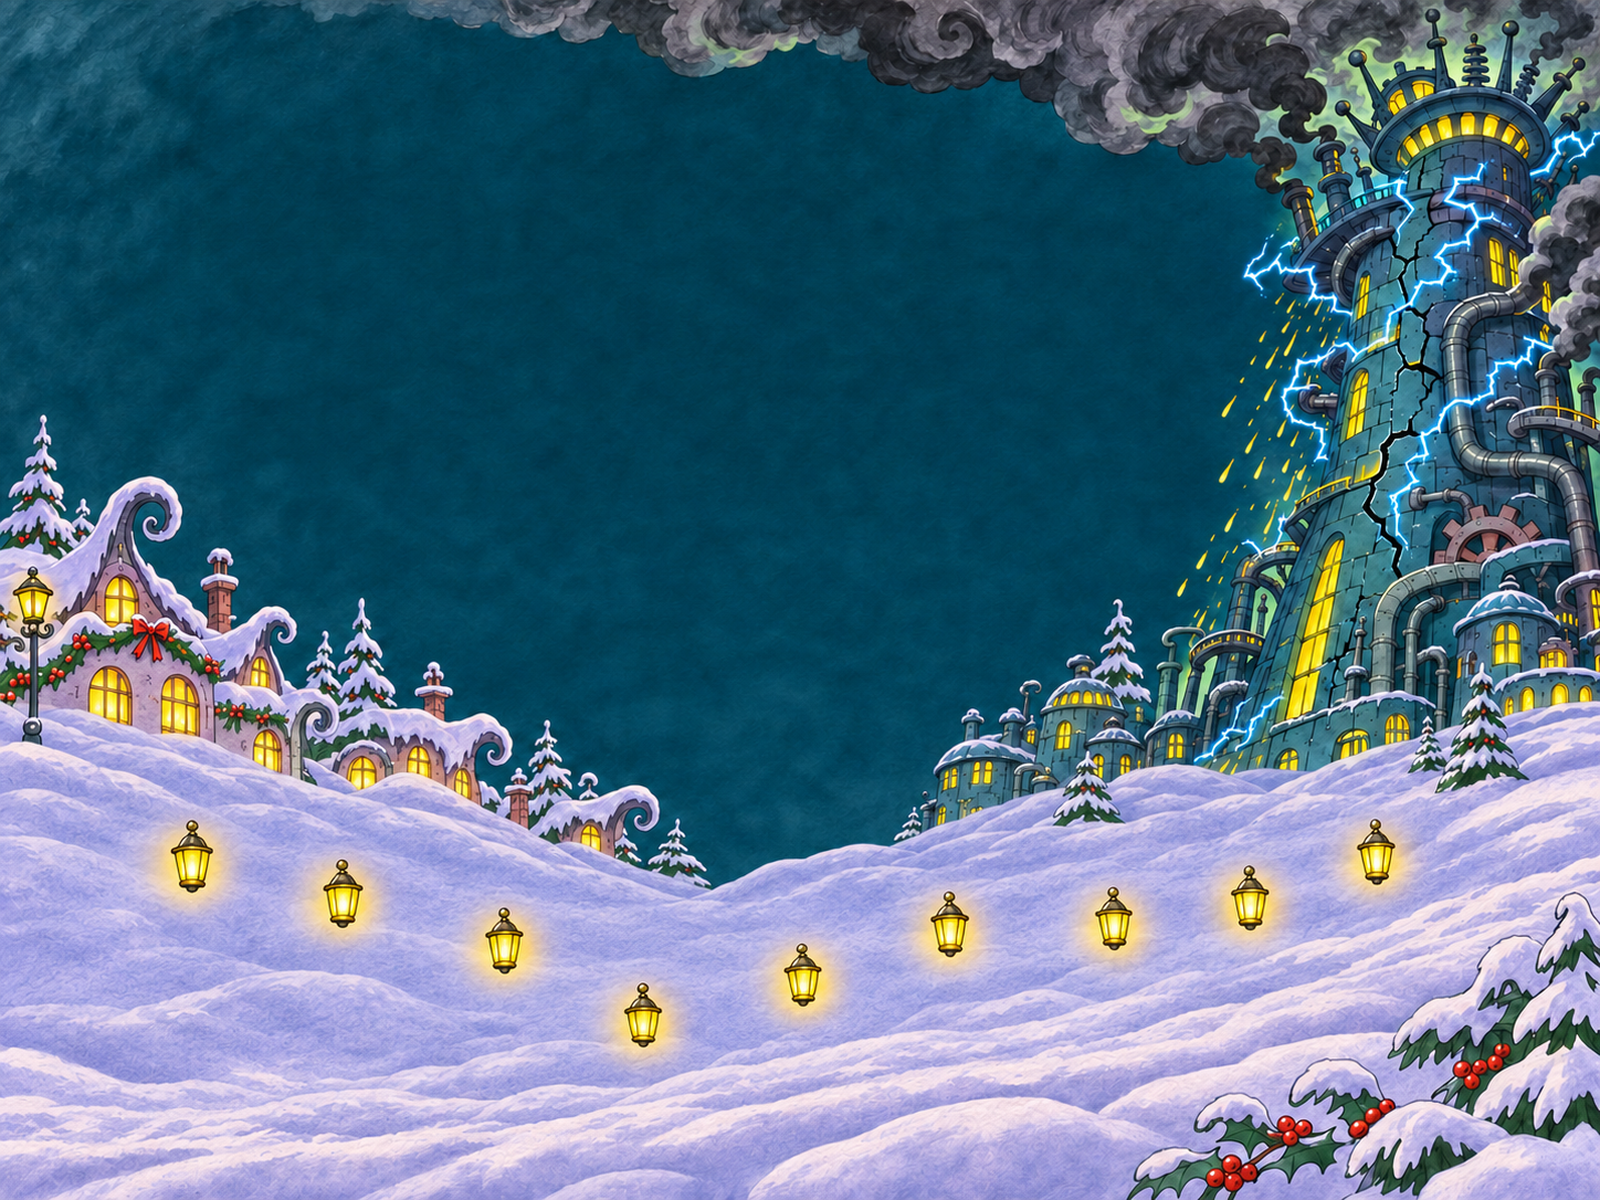
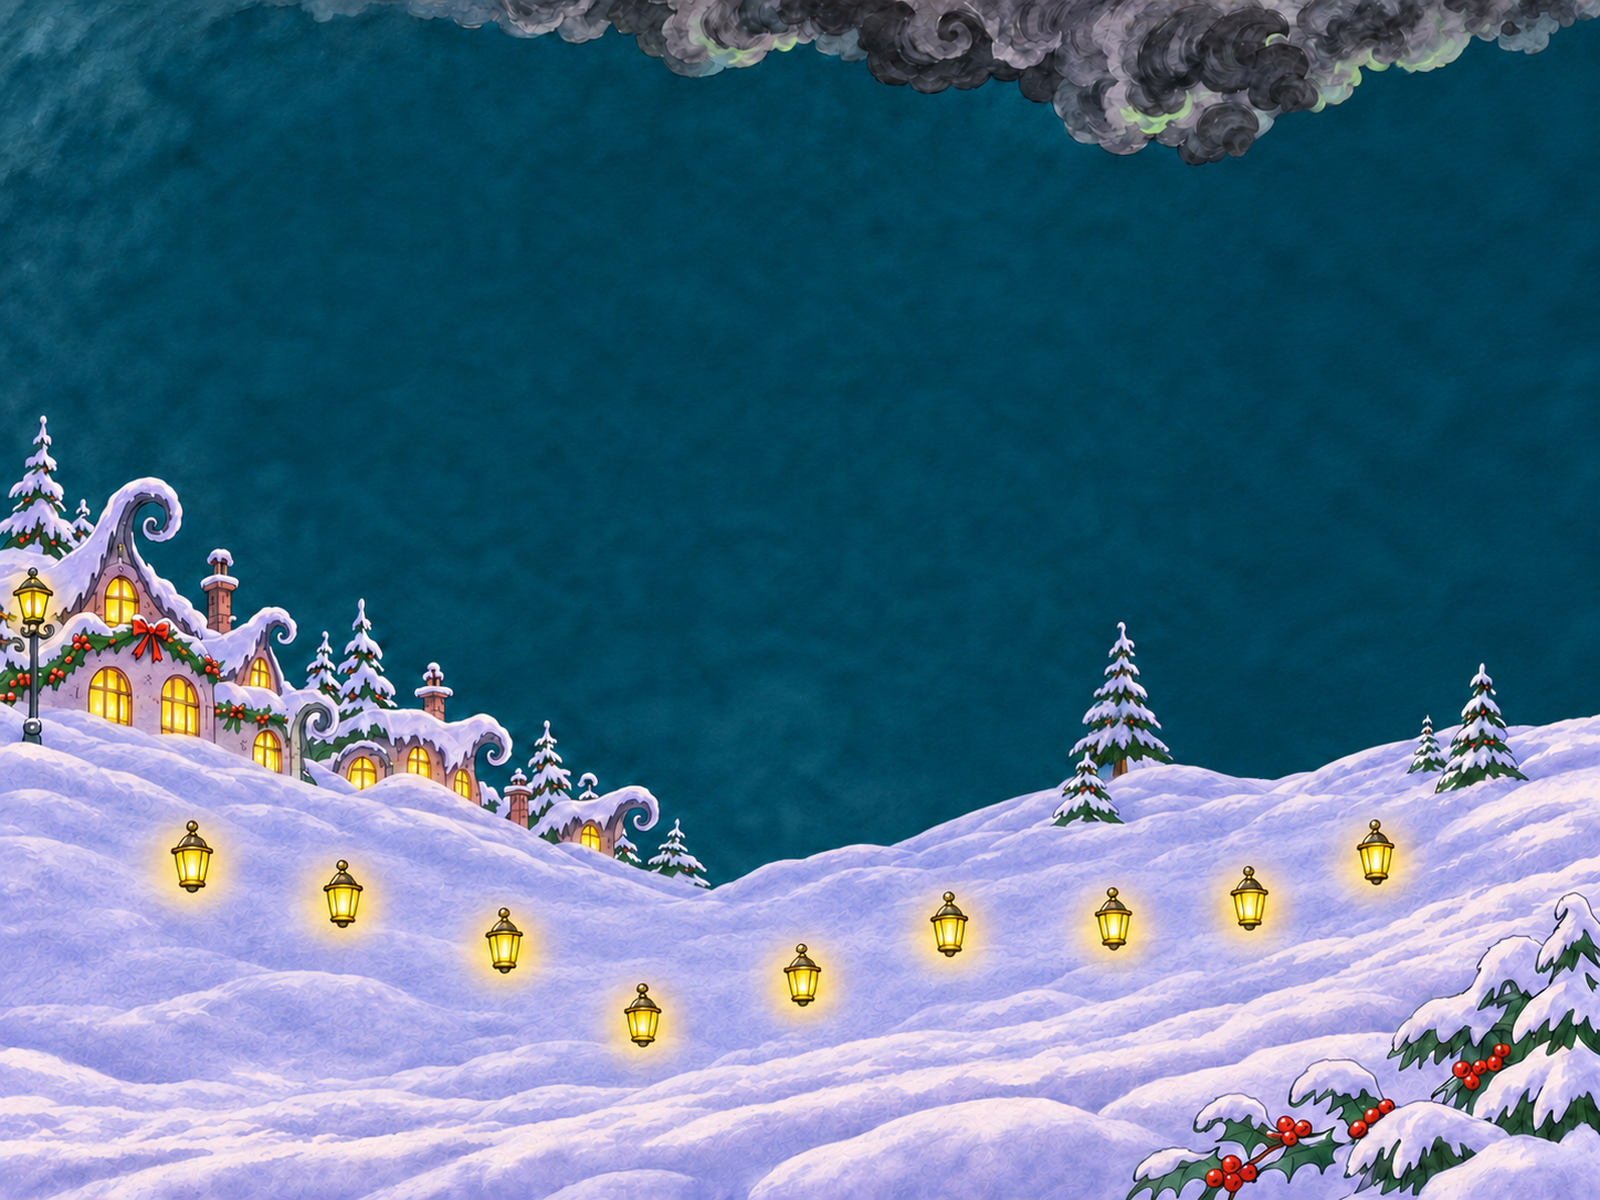
feat: elves bob with a band-aid slap, box brigade and balloon pop (51-53); RAM monument (54); windmills turn (56); cut-out towers everywhere after the intro
Claude-Session: https://claude.ai/code/session_01BFhReQ2JcUvxWY8MGAMx4B

diff --git a/src/shots/elves-town.ts b/src/shots/elves-town.ts
@@ -61,12 +61,58 @@ export const shot54: Choreo = (_t, frame, shot) => {
   const glow = 0.5 + 0.3 * rise + 0.2 * Math.exp(-(t - lastWord) / 0.25);
   const base: P = [RING54.cx + 30, RING54.snow + 10 + lerp(560, 0, rise)];
   for (const [r, o] of [[330, 0.07], [240, 0.1], [160, 0.14]] as [number, number][]) items.push({draw: {kind: 'dot', at: [base[0] + 40, base[1] - 320], size: r * (0.85 + 0.25 * glow), color: '#e8ffb0', opacity: o * glow}});   // soft layered glow
-  items.push({sprite: 'sprites/props/ram-stick', at: base, scale: 1.7, rot: -80, ramGiant: true} as Item);   // stood upright like a monument
+  items.push({sprite: 'sprites/townsfolk/ram-giant', at: base, scale: 1.25, size: [335, 521], anchor: [167, 515], ramGiant: true} as Item);   // the glowing RAM monument
   for (let k = 0; k < 10; k++) {   // sparkles around the monument
     const ph = (t * 1.3 + hash(k * 4.1)) % 1, th = 2 * Math.PI * hash(k * 2.3);
     items.push({draw: {kind: 'flake', at: [base[0] + Math.cos(th) * (180 + 120 * hash(k)), base[1] - 280 + Math.sin(th) * 260], size: 16 * Math.sin(Math.PI * ph), color: '#fffbe0', opacity: Math.sin(Math.PI * ph)}});
   }
   items.push({front: {y: RING54.snow}});
   items.push(...FRONT.map(([n, off], k) => pair('front', n, off, RING54.frontY, 0.95, k + 1)));
+  return items;
+};
+
+/** 51 (3:14) "…and patched up the hack!": the watching elves bob along; the ladder elf slaps the giant band-aid onto
+ *  the cracked server on "patched" — a lunge, a squash and a shower of sparks. */
+export const SLAP51 = lyrics[40].words.find(w => w.w === 'patched')!.s;
+export const shot51: Choreo = (_t, frame) => {
+  const t = twos(frame), a = t - SLAP51, slap = a >= 0 ? Math.exp(-a / 0.2) : clamp01(1 + a / 0.25) * 0.4;
+  const items: Item[] = [1, 2, 3, 4, 5].map((k, i) => bobbing(`51/char${k}`, t, i));
+  items.push(bobbing('51/char6', t, 5, {dx: 26 * slap, rot: 6 * slap}));
+  if (a >= 0 && a < 0.35) for (let k = 0; k < 10; k++) {
+    const th = 2 * Math.PI * hash(k * 2.7), c: P = [1450, 470], r0 = 20 + 200 * a, r1 = r0 + 60;
+    items.push({draw: {kind: 'line', at: [c[0] + Math.cos(th) * r0, c[1] + Math.sin(th) * r0], to: [c[0] + Math.cos(th) * r1, c[1] + Math.sin(th) * r1], size: 6, color: k % 2 ? '#fff3b0' : '#7df9ff', opacity: 1 - a / 0.35}});
+  }
+  return items;
+};
+
+/** 52 (3:17) "We built it all open, we built the full stack!": the glowing boxes go up the line — on each beat the next
+ *  carrier hoists theirs (a bucket brigade), everyone bobbing, the tower bumping behind (towerCut). */
+const CARRIERS52 = [3, 5, 6, 7, 9, 10];
+export const shot52: Choreo = (_t, frame, shot) => {
+  const t = twos(frame), b = beat(t), b0 = beat(shot.start).i, turn = CARRIERS52[((b.i - b0) % CARRIERS52.length + CARRIERS52.length) % CARRIERS52.length];
+  const lift = b.i >= 0 ? Math.exp(-b.since / 0.25) : 0;
+  return [1, 2, 3, 4, 5, 6, 7, 8, 9, 10].map((k, i) => {
+    const it = bobbing(`52/char${k}`, t, i) as {dy?: number};
+    if (k === turn) it.dy = (it.dy ?? 0) - 28 * lift;   // hoisting their box up the line
+    return it as Item;
+  });
+};
+
+/** 53 (3:21) "…It popped pretty fast!": the townsfolk watch the golden valuation balloon wobble overhead; on "popped"
+ *  it bursts (the burst layer flashes in big and fades) and everyone jumps, then lands and bobs. */
+export const POP53 = lyrics[42].words.find(w => w.w === 'popped')!.s;
+export const shot53: Choreo = (_t, frame) => {
+  const t = twos(frame), a = t - POP53, items: Item[] = [];
+  if (a < 0) {   // the balloon, whole, wobbling and swelling (the burst layer squeezed into a ball shape)
+    items.push({layer: '53/balloon', sx: 0.55 + 0.03 * Math.sin(t * 9), sy: 0.6 + 0.03 * Math.cos(t * 9), pivot: [712, 246], opacity: 0});
+    items.push({draw: {kind: 'dot', at: [712, 230 + 8 * Math.sin(t * 3)], size: 110 + 6 * Math.sin(t * 9), color: '#f2c230', ink: '#17121c'}});
+    items.push({draw: {kind: 'dot', at: [680, 200 + 8 * Math.sin(t * 3)], size: 28, color: '#fff0a0', opacity: 0.8}});
+  } else if (a < 0.8) items.push({layer: '53/balloon', sx: 1 + 0.4 * a, sy: 1 + 0.4 * a, pivot: [712, 246], opacity: 1 - a / 0.8});
+  const jump = a >= 0 && a < 0.55 ? Math.sin(Math.PI * a / 0.55) : 0;
+  [1, 2, 3, 4, 5, 6].forEach((k, i) => {
+    const it = bobbing(`53/char${k}`, t, i) as {dy?: number};
+    it.dy = (it.dy ?? 0) - 70 * jump * (0.8 + 0.2 * (i % 2));
+    items.push(it as Item);
+  });
   return items;
 };

diff --git a/src/shots/index.ts b/src/shots/index.ts
@@ -1,7 +1,7 @@
 import type {Choreo} from './types.ts';
 import {shot07} from './07.ts';
 import {shot56} from './energy56.ts';
-import {shot50, shot54} from './elves-town.ts';
+import {shot50, shot51, shot52, shot53, shot54} from './elves-town.ts';
 import {shot17} from './wink17.ts';
 import {shot09, shot64} from './faces.ts';
 import {shot65} from './ending65.ts';
@@ -19,6 +19,6 @@ import {shot10, shot24, shot25, shot26, shot27, shot39, shot63} from './ram-side
 /** Tier-A shots that have choreography; others still show their painted still. */
 export const CHOREO: Record<string, Choreo> = {
   ...SLEIGH_CHOREO, '58': shot58, '59': shot59, '40': shot40, '49': shot49, '61': shot61,
-  '07': shot07, '56': shot56, '50': shot50, '54': shot54, '17': shot17, '09': shot09, '64': shot64, '65': shot65, '30': shot30, '35': shot35, '36': shot36, '18': shot18, '19': shot19, '08': shot08, '43': shot43,
+  '07': shot07, '56': shot56, '50': shot50, '51': shot51, '52': shot52, '53': shot53, '54': shot54, '17': shot17, '09': shot09, '64': shot64, '65': shot65, '30': shot30, '35': shot35, '36': shot36, '18': shot18, '19': shot19, '08': shot08, '43': shot43,
   '10': shot10, '13': shot13, '13b': shot13b, '24': shot24, '25': shot25, '26': shot26, '27': shot27, '39': shot39, '63': shot63,
 };

diff --git a/src/shots/energy56.ts b/src/shots/energy56.ts
@@ -7,6 +7,7 @@ import regions from '../../docs/fx-regions.json' with {type: 'json'};
 import {twos} from './kit.ts';
 import type {Choreo, Item} from './types.ts';
 
+const ROTORS: [number, number, number][] = [[125, 630, 88], [270, 710, 62], [384, 768, 44]];   // windmill hubs (still px) and blade length
 const WIN = (regions as Record<string, {windows?: number[][]}>)['56'].windows ?? [];
 const PIPE: P = [650, 672], CTRL: P = [628, 690], TANK: P = [606, 806], POOL: P = [600, 850];
 const q = (u: number): P => [(1 - u) ** 2 * PIPE[0] + 2 * (1 - u) * u * CTRL[0] + u * u * TANK[0], (1 - u) ** 2 * PIPE[1] + 2 * (1 - u) * u * CTRL[1] + u * u * TANK[1]];
@@ -31,5 +32,6 @@ export const shot56: Choreo = (_t, frame, shot) => {
     const flicker = a < 0.3 && Math.floor(a * 24 / 2) % 2 === 0;
     if (!flicker) items.push({draw: {kind: 'rect', at: [x, y], size: 0, w: w + 4, h: h + 4, color: '#161b35', opacity: 0.88}});
   });
+  for (const [hx, hy, r] of ROTORS) items.push({sprite: 'sprites/windmill/rotor', at: [hx, hy], scale: r / 190, size: [400, 400], anchor: [200, 200], rot: (_t * 160 + hx) % 360});   // smooth time: no strobing
   return items;
 };
